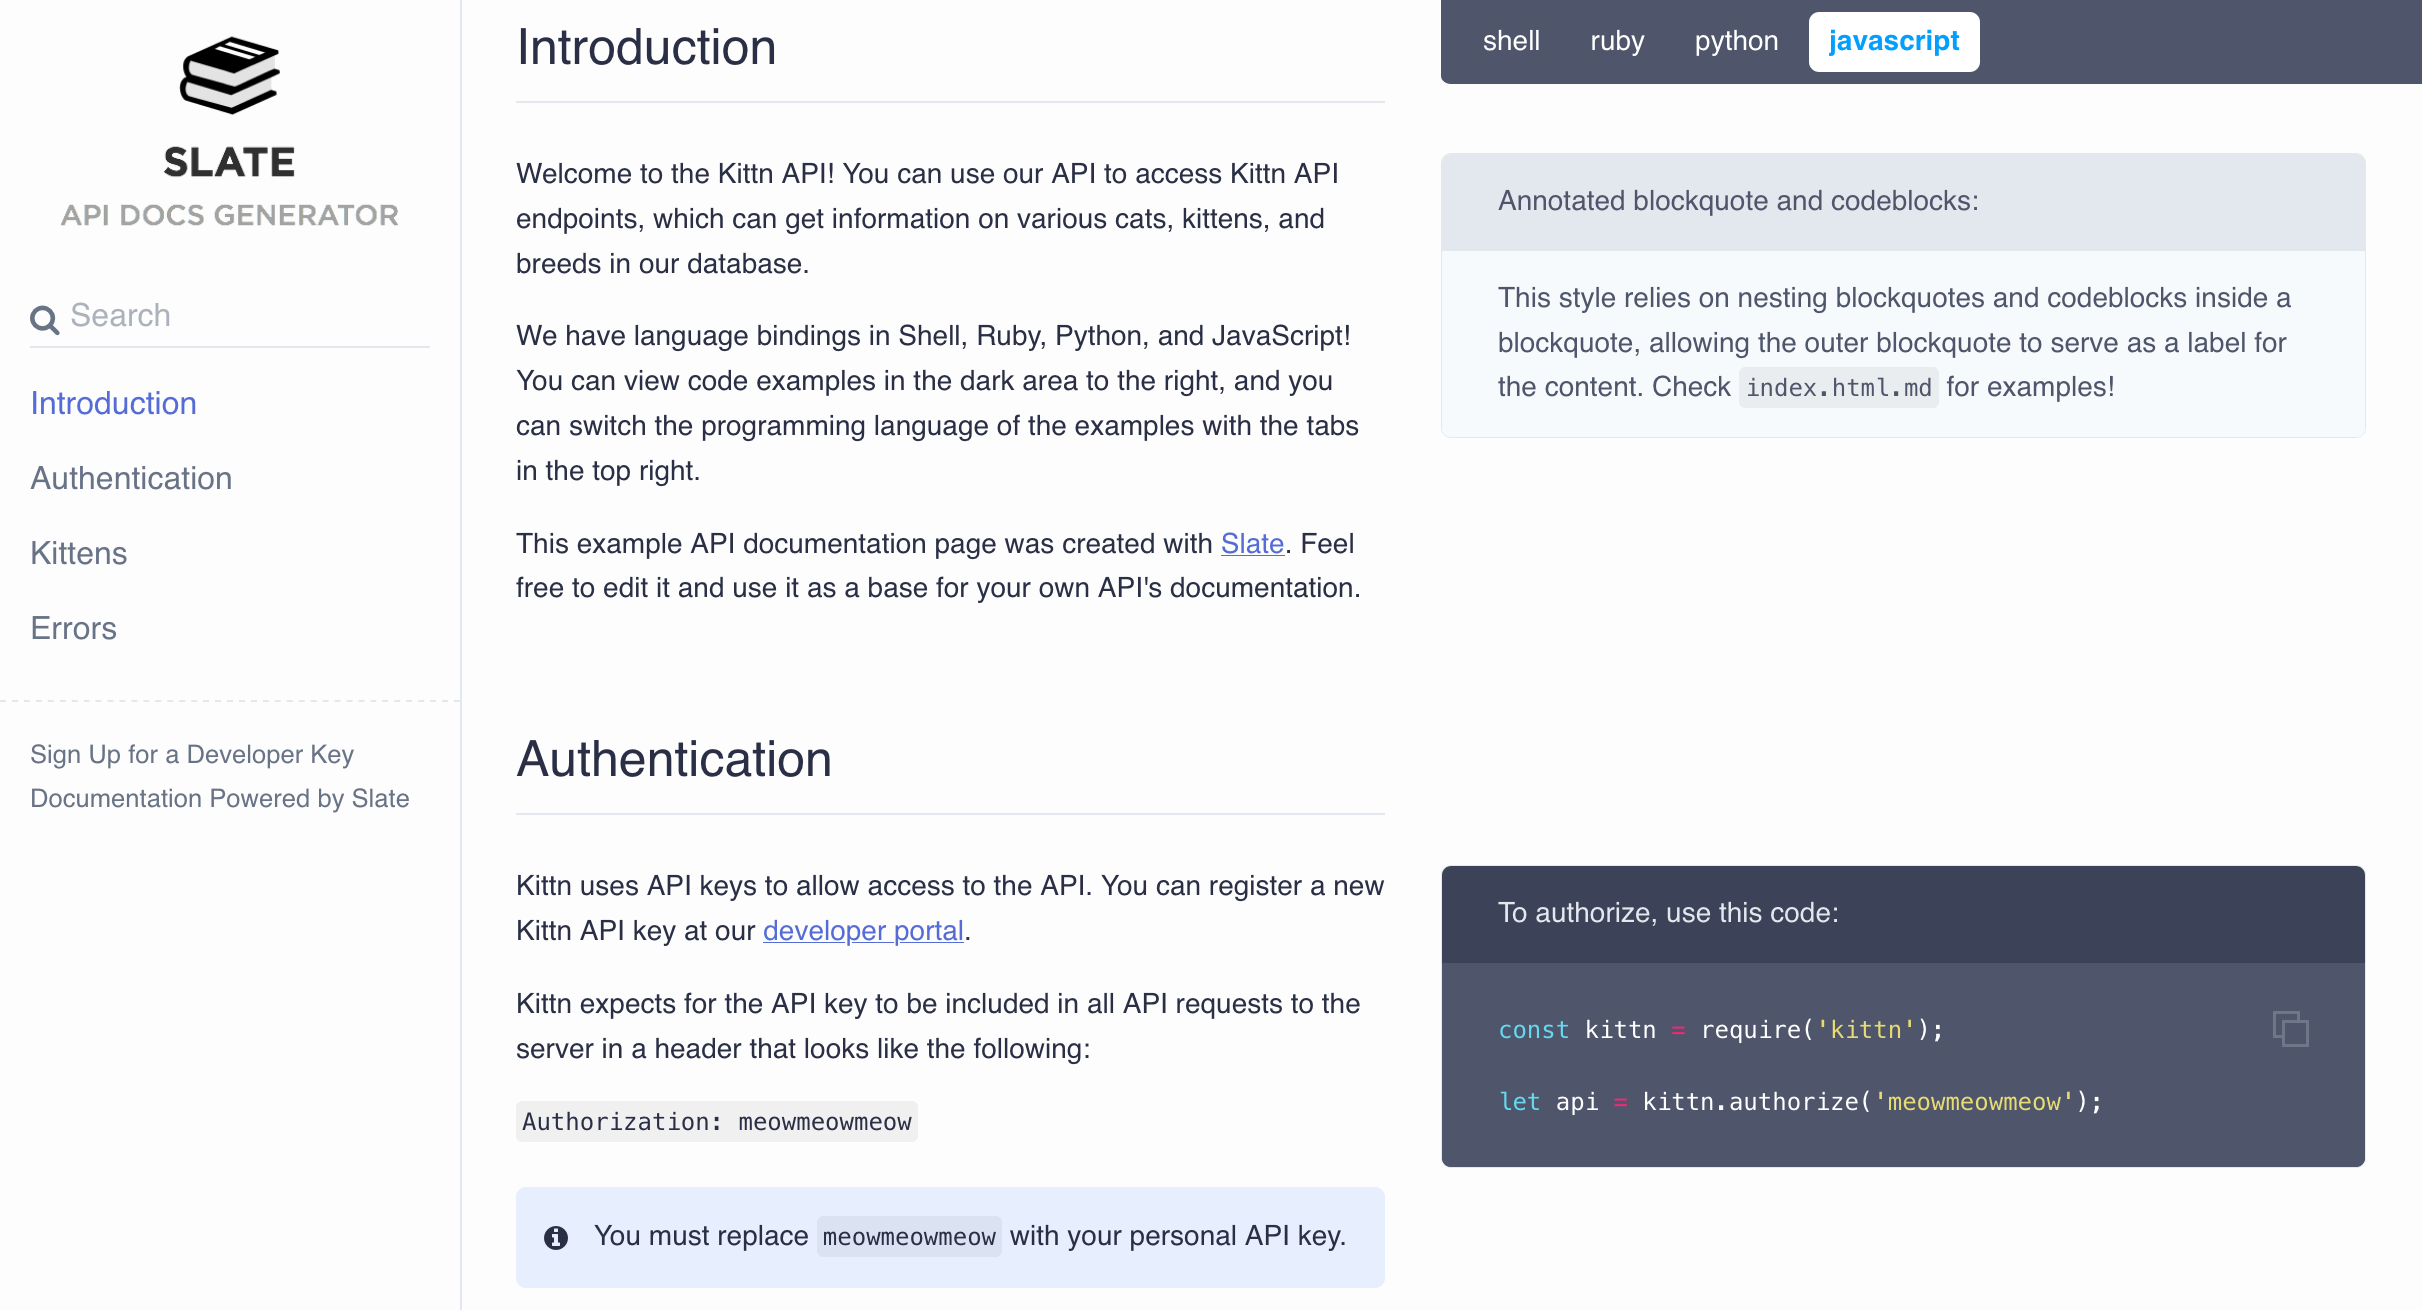
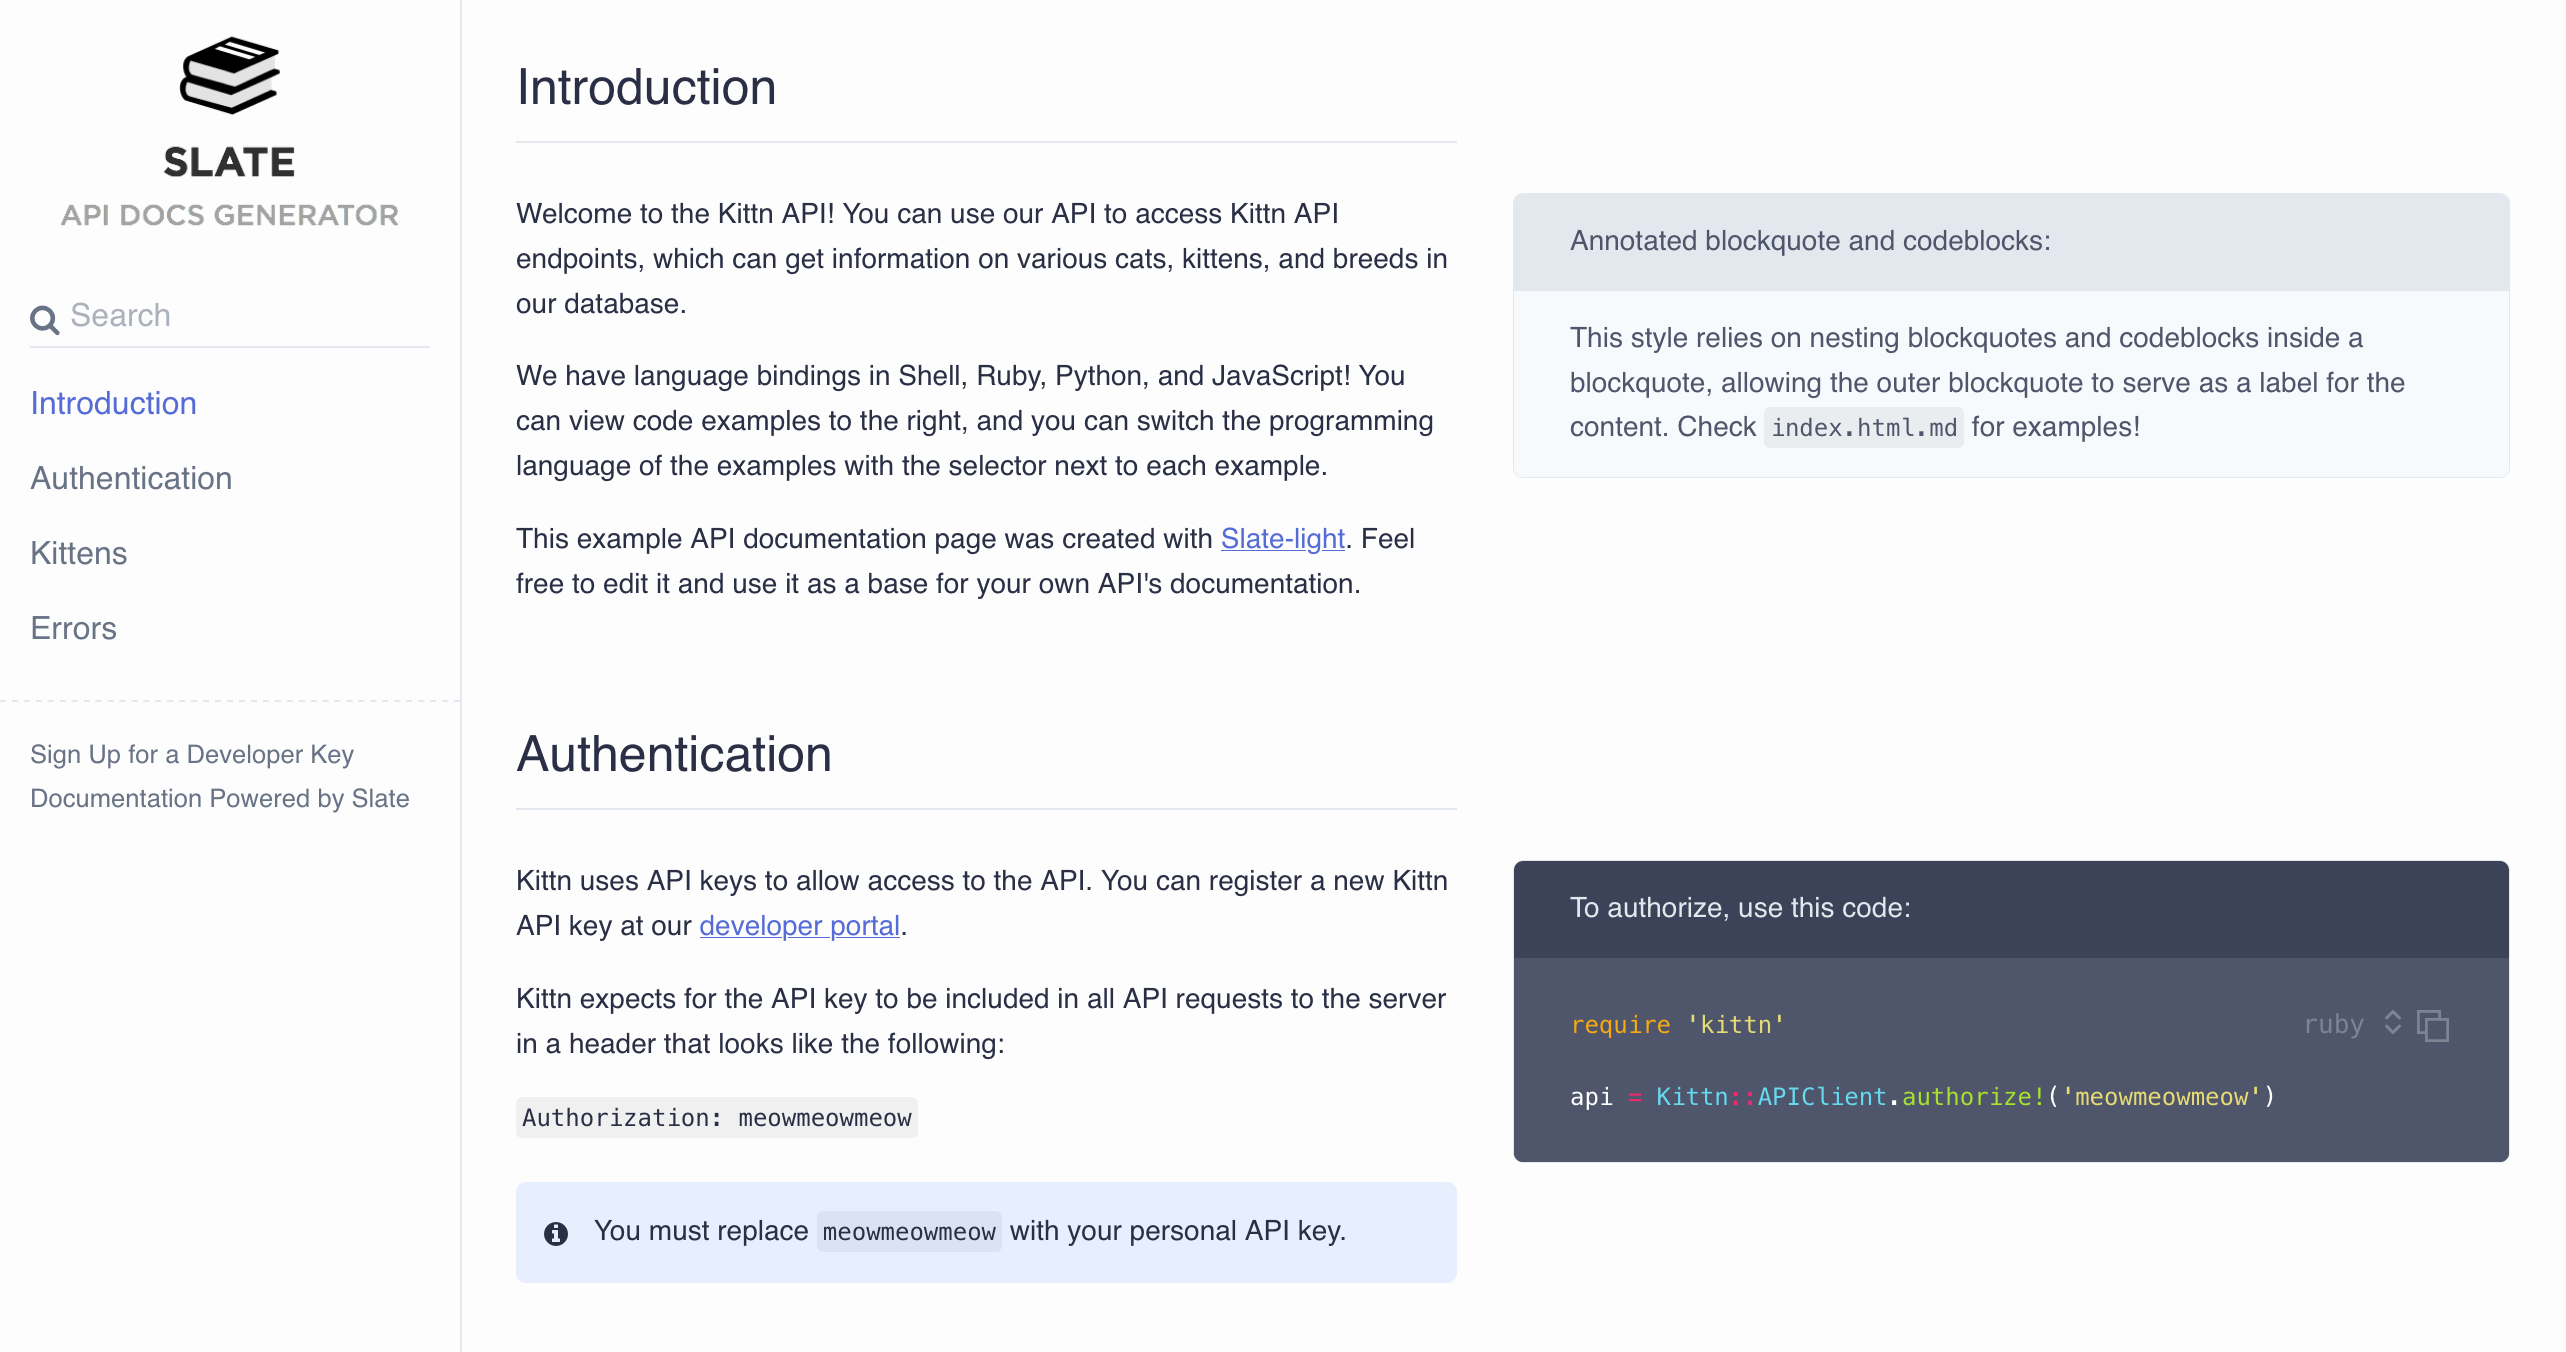
Add a new language selector that's inserted in each code-example instead of being stuck at the top.

diff --git a/source/stylesheets/screen.css.scss b/source/stylesheets/screen.css.scss
@@ -63,15 +63,6 @@ html, body {
   font-size: 16px;
   font-weight: 400;
 
-  // language selector for mobile devices
-  .lang-selector {
-    display: none;
-    a {
-      padding-top: 0.5em;
-      padding-bottom: 0.5em;
-    }
-  }
-
   // This is the logo at the top of the ToC
   .logo {
     display: block;
@@ -272,51 +263,78 @@ html, body {
     top: 0;
     bottom: 0;
   }
+}
 
-  .lang-selector {
-    position: fixed;
-    z-index: 50;
-    border-bottom: 1px solid var(--main-bg);
+// Hide the old language-selector by default
+.lang-selector {
+  display: none;
+}
+
+.lang-select {
+  position: relative;
+  float: right;
+  cursor: pointer;
+  opacity: 0.4;
+  height: 18px;
+  color: #c1c9d2;
+
+  select {
+    -webkit-appearance:none;
+    vertical-align: top;
+    display: inline;
+    background-color: transparent;
+    border: 0;
+
+    cursor: pointer;
+    text-align: right;
+    text-align-last: right;
+    color: inherit;
+
+    padding: 0 22px 0 0;
+    font-size: 13px;
+    margin-top: -1px;
+
+    z-index: 2;
+    position: relative;
+
+    option {
+      color: var(--main-text);
+    }
+  }
+
+  svg {
+    padding-top: 2px;
+    fill: currentColor;
+
+    // Position the svg below the select's margin, so when you click on the svg the select still opens:
+    position: absolute;
+    top: 0px;
+    right: 0px;
+    z-index: 1;
   }
 }
 
-.lang-selector {
-  display: flex;
-  background-color: $lang-select-bg;
-  width: 100%;
-  font-weight: bold;
-  overflow-x: auto;
-  border-bottom-left-radius: $rounding;
-  border-bottom-right-radius: $rounding;
-  padding: 6px;
-  a {
-    display: inline;
-    color: $lang-select-text;
-    text-decoration: none;
-    padding: 0 10px;
-    line-height: 30px;
-    outline: 0;
-    margin-left: $rounding;
-    border-radius: $rounding;
-    font-weight: 500;
+.lang-select:hover {
+  color: #e3e8ee;
+}
 
-    &:active, &:focus {
-      background-color: $lang-select-pressed-bg;
-      color: $lang-select-pressed-text;
-    }
 
-    &.active {
-      background-color: $lang-select-active-bg;
-      color: $lang-select-active-text;
-      font-weight: 600;
-    }
+.copy-clipboard {
+  float: right;
+  fill: #c1c9d2;
+  cursor: pointer;
+  opacity: 0.4;
+  height: 18px;
+  width: 18px;
+
+  svg {
+    width: 16px;
+    margin-top: 2px;
   }
+}
 
-  &:after {
-    content: '';
-    clear: both;
-    display: block;
-  }
+.copy-clipboard:hover {
+  fill: #e3e8ee;
 }
 
 ////////////////////////////////////////////////////////////////////////////////
@@ -330,6 +348,7 @@ html, body {
   // to place content above the dark box
   position: relative;
   z-index: 30;
+  padding: 20px 0;
 
   &:after {
     content: '';
@@ -636,15 +655,6 @@ html, body {
     margin-right: $main-padding;
   }
 
-  .toc-wrapper .lang-selector {
-    display: block;
-    border-radius: 0;
-  }
-
-  .page-wrapper .lang-selector {
-    display: none;
-  }
-
   %right-col {
     width: auto;
     float: none;
@@ -670,17 +680,4 @@ html, body {
 
 .highlight, .highlight .w {
   background-color: $code-bg;
-}
-
-.copy-clipboard {
-  float: right;
-  fill: #9DAAB6;
-  cursor: pointer;
-  opacity: 0.4;
-  height: 18px;
-  width: 18px;
-}
-
-.copy-clipboard:hover {
-  opacity: 0.8;
 }

diff --git a/source/javascripts/app/_lang.js b/source/javascripts/app/_lang.js
@@ -28,8 +28,7 @@ under the License.
     if (!language) return;
     if (language === "") return;
 
-    $(".lang-selector a").removeClass('active');
-    $(".lang-selector a[data-language-name='" + language + "']").addClass('active');
+    const sel = $(".lang-select select").val(language);
     for (var i=0; i < languages.length; i++) {
       $(".highlight.tab-" + languages[i]).hide();
       $(".lang-specific." + languages[i]).hide();
@@ -135,12 +134,28 @@ under the License.
   }
 
   function setupLanguages(l) {
+    languages = l;
+
+    // Generate language selector:
+    if (languages.length > 0) {
+      $('pre.highlight').prepend('<div class="lang-select"><select></select><svg xmlns="http://www.w3.org/2000/svg" width="18px" viewBox="0 0 24 24"><title>Change Language</title><path d="M11.591 9.992a1 1 0 1 1 1.416 1.415l-4.3 4.3a1 1 0 0 1-1.414 0l-4.3-4.3A1 1 0 0 1 4.41 9.992L8 13.583zm0-3.984L8 2.417 4.409 6.008a1 1 0 1 1-1.416-1.415l4.3-4.3a1 1 0 0 1 1.414 0l4.3 4.3a1 1 0 1 1-1.416 1.415z" fill-rule="evenodd"></path></svg></div>');
+      const sel = $(".lang-select select")
+      $(languages).each(function () {
+        sel.append($("<option>").attr('value', this).text(this));
+      });
+
+      // if we click on a language tab, activate that language:
+      sel.on("change", function() {
+        pushURL(this.value);
+        activateLanguage(this.value);
+        return false;
+      })
+    }
+
     var defaultLanguage = null;
     if (localStorage) {
       defaultLanguage = localStorage.getItem("language");
     }
-
-    languages = l;
 
     var presetLanguage = getLanguageFromQueryString();
     if (presetLanguage) {
@@ -158,14 +173,5 @@ under the License.
       activateLanguage(languages[0]);
     }
   }
-
-  // if we click on a language tab, activate that language
-  $(function() {
-    $(".lang-selector a").on("click", function() {
-      var language = $(this).data("language-name");
-      pushURL(language);
-      activateLanguage(language);
-      return false;
-    });
-  });
 })();
+

diff --git a/source/javascripts/all_nosearch.js b/source/javascripts/all_nosearch.js
@@ -3,11 +3,6 @@
 //= require ./app/_toc
 //= require ./app/_lang
 
-function adjustLanguageSelectorWidth() {
-  const elem = $('.dark-box > .lang-selector');
-  elem.width(elem.parent().width());
-}
-
 $(function() {
   loadToc($('#toc'), '.toc-link', '.toc-list-h2', 10);
   setupLanguages($('body').data('languages'));
@@ -15,11 +10,6 @@ $(function() {
     window.recacheHeights();
     window.refreshToc();
   });
-
-  $(window).resize(function() {
-    adjustLanguageSelectorWidth();
-  });
-  adjustLanguageSelectorWidth();
 });
 
 window.onpopstate = function() {

diff --git a/source/javascripts/app/_copy.js b/source/javascripts/app/_copy.js
@@ -10,6 +10,7 @@ function copyToClipboard(container) {
 function setupCodeCopy() {
   $('pre.highlight').prepend('<div class="copy-clipboard"><svg xmlns="http://www.w3.org/2000/svg" viewBox="0 0 24 24"><title>Copy to Clipboard</title><path d="M18 6v-6h-18v18h6v6h18v-18h-6zm-12 10h-4v-14h14v4h-10v10zm16 6h-14v-14h14v14z"></path></svg></div>');
   $('.copy-clipboard').on('click', function() {
-    copyToClipboard(this.parentNode.children[1]);
+    let c = this.parentNode.children;
+    copyToClipboard(c[c.length-1]);
   });
 }

diff --git a/source/stylesheets/_rtl.scss b/source/stylesheets/_rtl.scss
@@ -42,12 +42,6 @@ $default: auto;
     }
 }
 
-.lang-selector {
-    width: $default !important;
-    a {
-        float: right;
-    }
-}
 
 ////////////////////////////////////////////////////////////////////////////////
 // CODE SAMPLE STYLES

diff --git a/source/stylesheets/print.css.scss b/source/stylesheets/print.css.scss
@@ -27,7 +27,7 @@ body {
   @extend %default-font;
 }
 
-.tocify, .toc-footer, .lang-selector, .search, #nav-button {
+.tocify, .toc-footer, .search, #nav-button {
   display: none;
 }
 

diff --git a/source/index.html.md b/source/index.html.md
@@ -34,9 +34,9 @@ meta:
 
 Welcome to the Kittn API! You can use our API to access Kittn API endpoints, which can get information on various cats, kittens, and breeds in our database.
 
-We have language bindings in Shell, Ruby, Python, and JavaScript! You can view code examples in the dark area to the right, and you can switch the programming language of the examples with the tabs in the top right.
+We have language bindings in Shell, Ruby, Python, and JavaScript! You can view code examples to the right, and you can switch the programming language of the examples with the selector next to each example.
 
-This example API documentation page was created with [Slate](https://github.com/slatedocs/slate). Feel free to edit it and use it as a base for your own API's documentation.
+This example API documentation page was created with [Slate-light](https://github.com/AlbinLindskog/slate-light/). Feel free to edit it and use it as a base for your own API's documentation.
 
 # Authentication
 
@@ -53,7 +53,6 @@ This example API documentation page was created with [Slate](https://github.com/
 >```
 >
 >```shell
-># With shell, you can just pass the correct header with each request
 >curl "api_endpoint_here" \
 >  -H "Authorization: meowmeowmeow"
 >```

diff --git a/README.md b/README.md
@@ -11,4 +11,6 @@
 
 * **Nested blockquotes** — Markdown supports nesting blockquotes or codeblocks inside blockquote. This theme adds styling for this feature, and uses it to create labeled quotes or code snippets.
 
+* **Language selector** - The language selector is inserted next to each code example instead of being stuck at the top.
+
 The original Slate repo is available at [https://github.com/slatedocs/slate](https://github.com/slatedocs/slate).
